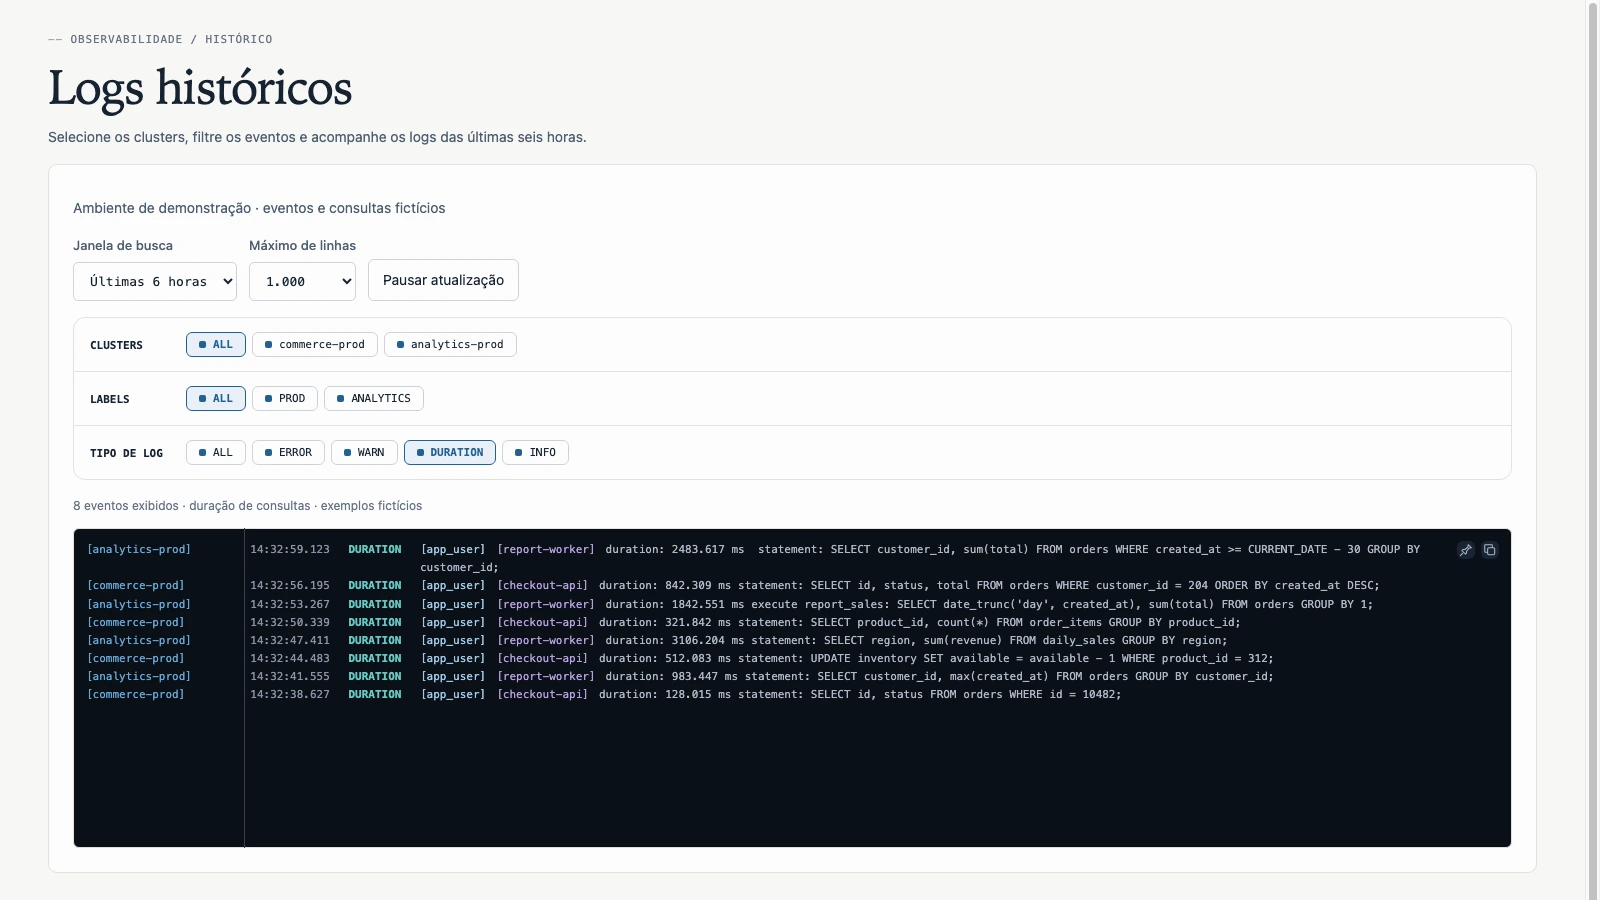
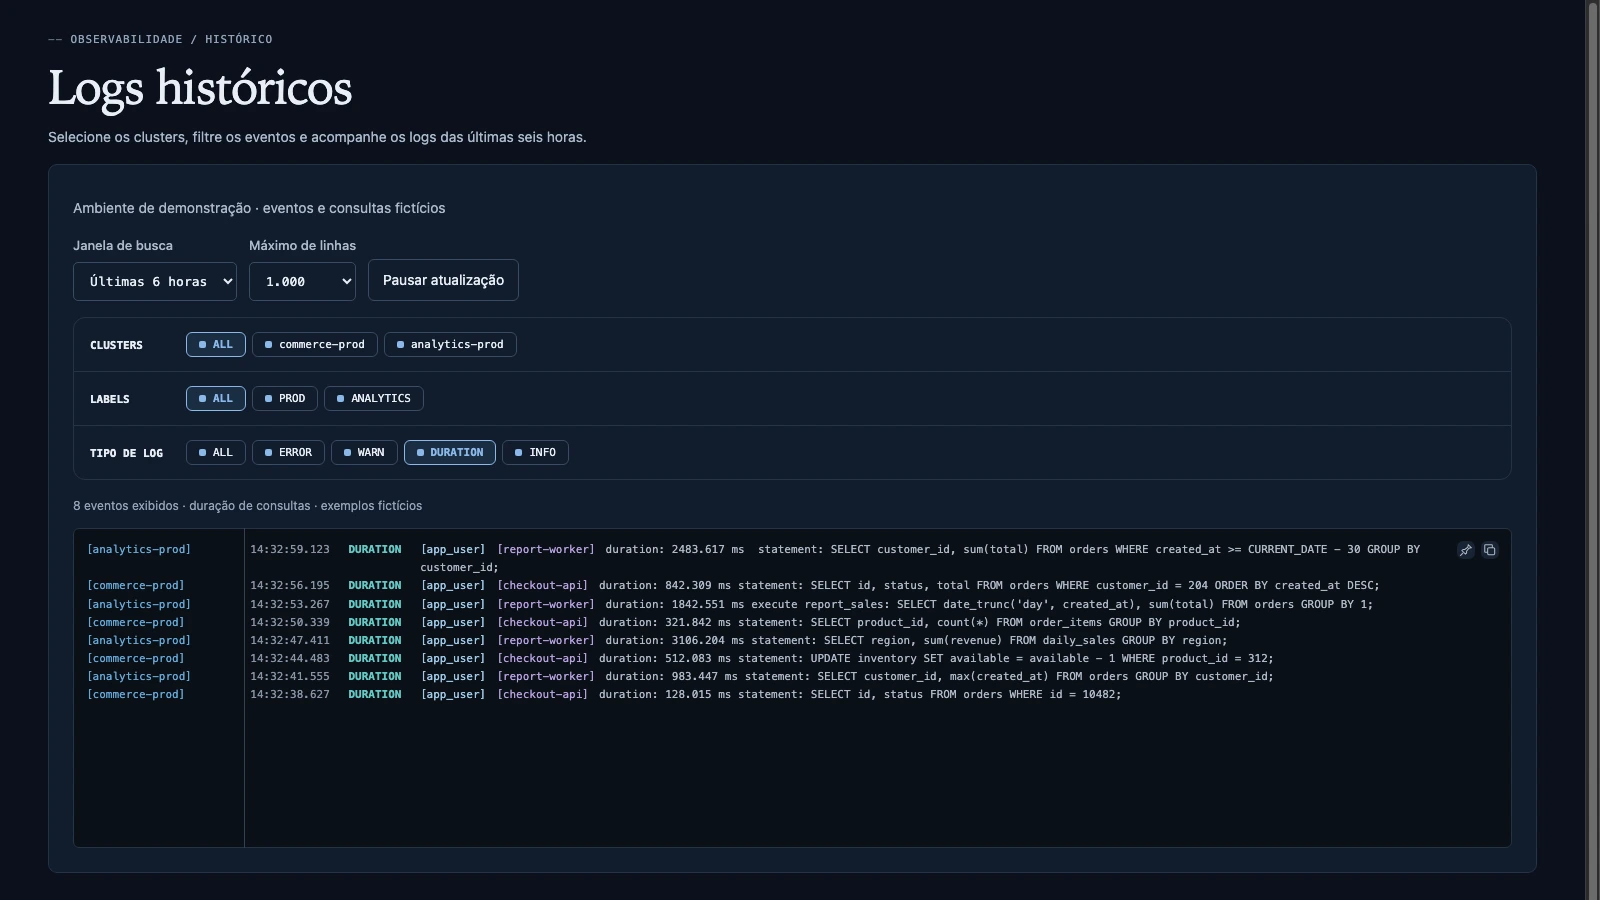
Use native Hodegres dark theme in product gallery

diff --git a/style.css b/style.css
@@ -27,3 +27,8 @@
 .frame-number{opacity:.6;font-size:8px;margin-right:5px}
 .gallery-note{margin-top:18px;color:var(--muted);font-size:9px;max-width:700px}
 @media(max-width:700px){.gallery-heading{align-items:start;gap:12px;padding-top:18px}.gallery-heading h3{font-size:17px;max-width:240px}.gallery-count{font-size:8px}.gallery-description{font-size:10px;min-height:76px;margin:14px 0 18px}.gallery-tabs{gap:5px;margin-top:13px}.gallery-tabs>button{font-size:9px;padding:8px 9px}.frame-number{font-size:7px;margin-right:3px}.gallery-note{font-size:8px}.image-arrow{width:36px;height:36px;font-size:17px}.image-arrow.previous{left:8px}.image-arrow.next{right:8px}}
+/* Native dark palette from Hodegres.monitor, confined to product frames. */
+.hero-window,.detail-window{background:#0b111d;border-color:#253247}
+.hero-window .window-bar,.detail-window .window-bar,.hero-window figcaption,.detail-window figcaption{background:#111c2c;color:#acb9cc;border-color:#253247}
+.hero-window .window-dots,.detail-window .window-dots{color:#657185}
+.platform-gallery .detail-window .image-button{background:#0b111d}

diff --git a/README.md b/README.md
@@ -22,7 +22,7 @@ Modalidades: diagnóstico PostgreSQL, projeto de evolução e acompanhamento con
 
 ## Telas do produto
 
-A galeria reúne sete capturas: clusters, logs de erros, logs de duration, status do database, autovacuum, bloat e configurações. As imagens usam a interface real do Hodegres.monitor com dados inteiramente fictícios. São imagens estáticas, identificadas como demonstração. Não contêm informações de clientes e não se conectam ao backend. A navegação superior do monitor fica fora do enquadramento para destacar o conteúdo. A navegação institucional permanece visível. As setas da galeria ficam sobre a imagem e aparecem ao passar o mouse ou focar os controles pelo teclado; as abas também permitem navegar em telas de toque.
+A galeria reúne sete capturas: clusters, logs de erros, logs de duration, status do database, autovacuum, bloat e configurações. As imagens usam a interface real do Hodegres.monitor no tema escuro nativo (`monitor-theme=dark`), com dados inteiramente fictícios. São imagens estáticas, identificadas como demonstração. Não contêm informações de clientes e não se conectam ao backend. A navegação superior do monitor fica fora do enquadramento para destacar o conteúdo. A navegação institucional permanece visível. As setas da galeria ficam sobre a imagem e aparecem ao passar o mouse ou focar os controles pelo teclado; as abas também permitem navegar em telas de toque.
 
 ## Referências técnicas
 
